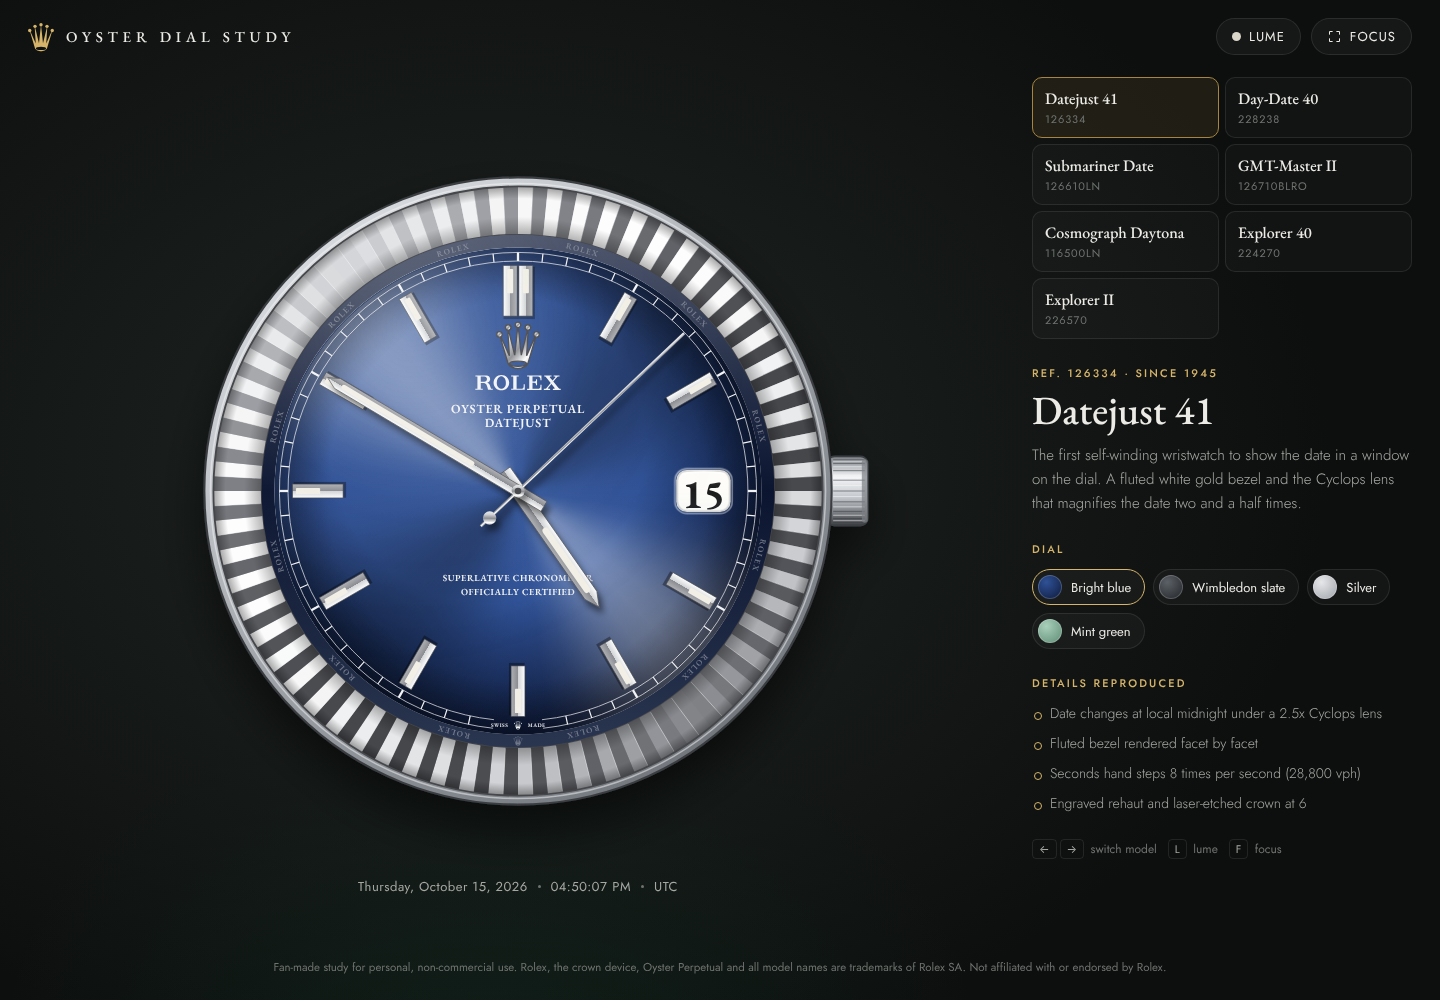
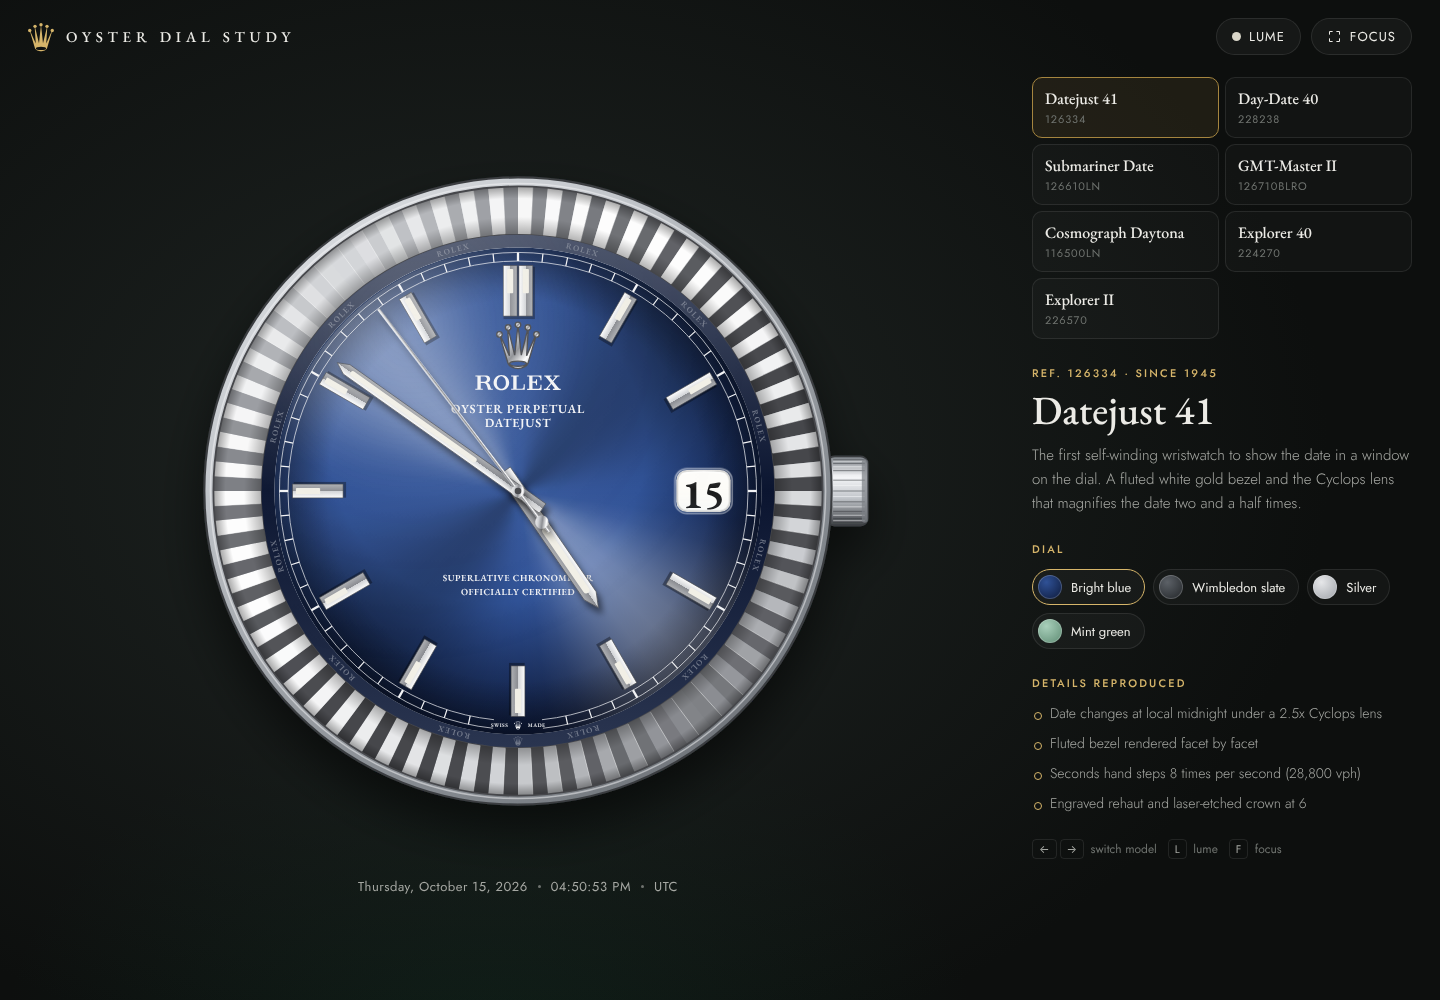
Remove the footer disclaimer from the page
Claude-Session: https://claude.ai/code/session_01MR7uiZKYXyyZxiVebD44dd

diff --git a/styles.css b/styles.css
@@ -195,12 +195,9 @@ kbd {
   padding: 1px 6px; margin-right: 3px; color: var(--ink-2);
 }
 
-.foot {
-  padding: 18px 28px 24px; font-size: 11.5px; color: var(--ink-3); line-height: 1.5; text-align: center;
-}
 
 /* focus mode hides everything but the watch */
-body.focus .panel, body.focus .foot, body.focus .brand { display: none; }
+body.focus .panel, body.focus .brand { display: none; }
 body.focus .layout { grid-template-columns: 1fr; }
 body.focus .watch-svg { height: 88vh; }
 

diff --git a/index.html b/index.html
@@ -59,10 +59,6 @@
     </aside>
   </main>
 
-  <footer class="foot">
-    Fan-made study for personal, non-commercial use. Rolex, the crown device, Oyster Perpetual and all model names are trademarks of Rolex SA. Not affiliated with or endorsed by Rolex.
-  </footer>
-
   <script src="js/models.js"></script>
   <script src="js/watch.js"></script>
   <script src="js/app.js"></script>
